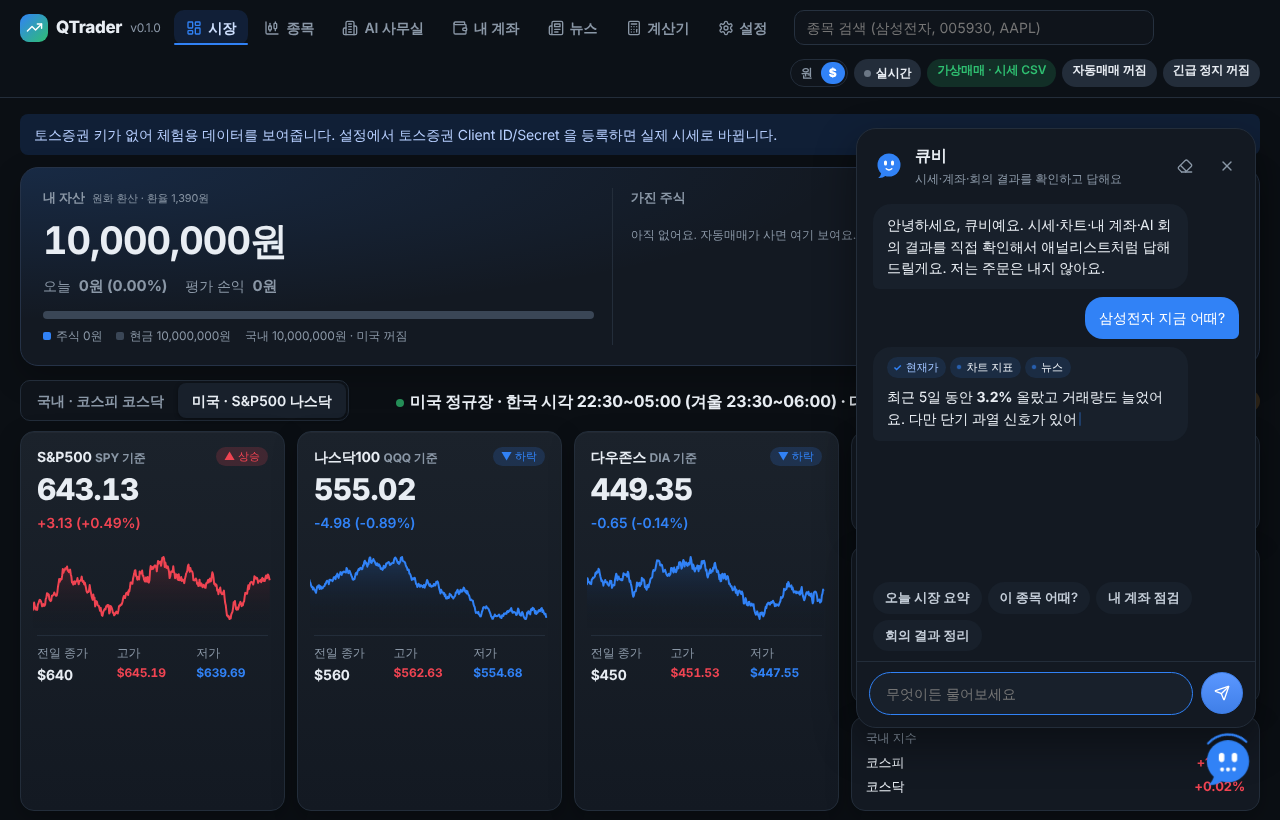
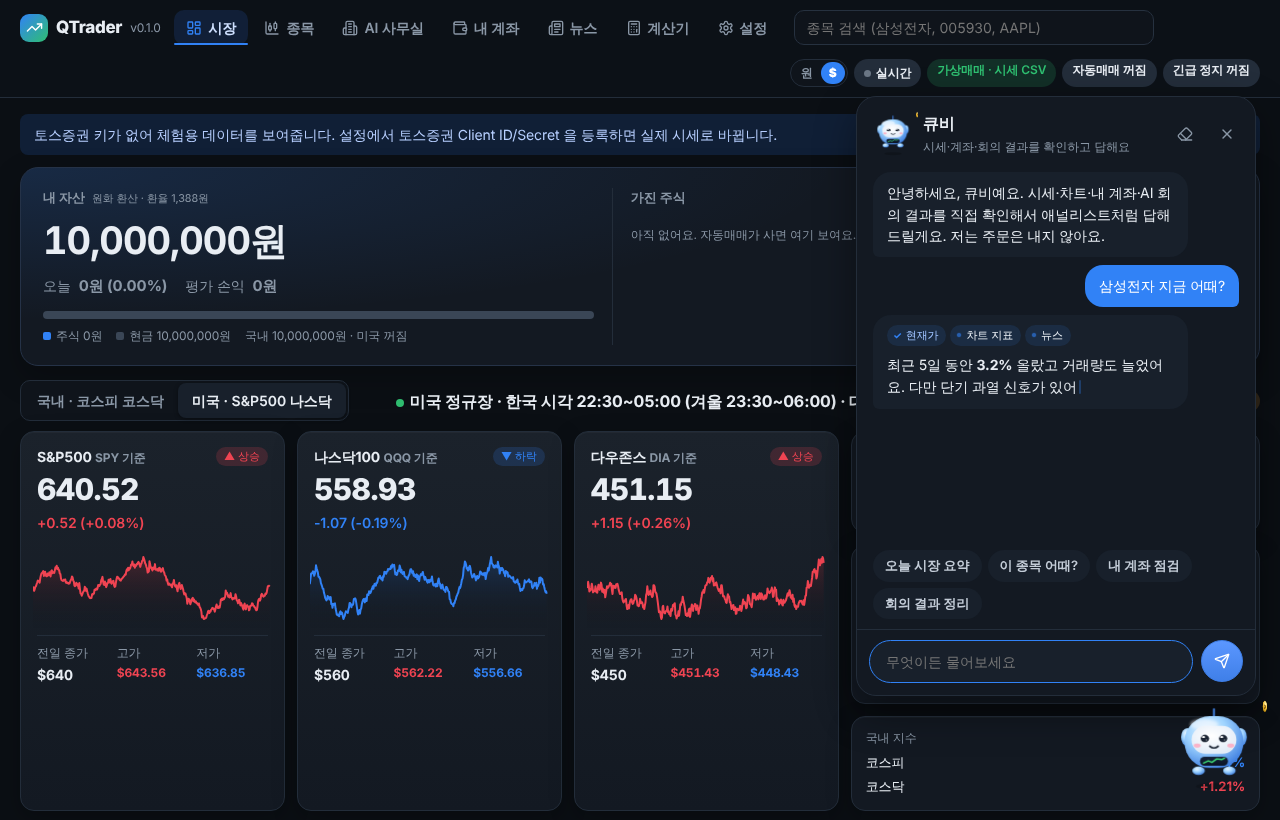
큐비 그림을 원래 3D 모습으로 되돌림 (사용자 요청)
왜: 평면 말풍선 큐비가 원하던 느낌이 아니라서, 처음의 3D 큐비(그라데이션 몸통·동전 안테나·떠다니기·눈 깜빡·생각 중 동전 회전)로 되돌렸다.
버튼 크기(84×92)·대화 창 위치·처음 안내 화면 크기도 원래대로. 답 도착 통 튀기기는 뺐다.
대화 창 열기·닫기 모션, 말풍선·확인 중 칩·커서 정리, 화면 전체 모션 줄이기는 그대로 둔다.

Claude-Session: https://claude.ai/code/session_01Mq9tu3P8YFmjtbtzv5CC8U

diff --git a/qtrader/web/static/chat.css b/qtrader/web/static/chat.css
@@ -1,45 +1,24 @@
-/* 떠 있는 챗봇 큐비 — 토스처럼 깔끔하게: 평면 그림, 짧고 부드러운 움직임(150~400ms), transform·opacity 만 움직인다 */
+/* 떠 있는 챗봇 큐비 — 큐비 그림은 3D 느낌 그대로, 대화 창은 짧고 부드러운 움직임(150~400ms)으로 */
 #qbi { --qbi-ease: cubic-bezier(.2,.8,.2,1); position: fixed; right: 24px; bottom: 24px; z-index: 40; }
 
-/* 떠 있는 버튼 */
-#qbi .qbi-btn { width: 56px; height: 56px; padding: 0; border: 0; border-radius: 50%; background: none; cursor: grab; touch-action: none;
-  position: relative; transition: transform .2s var(--qbi-ease); }
-#qbi .qbi-btn:hover { filter: none; transform: scale(1.05); }
-#qbi .qbi-btn:active:not(:disabled) { cursor: grabbing; transform: scale(.94); }
-.qbi-svg { display: block; width: 100%; height: 100%; overflow: visible; }
-.qbi-svg g, .qbi-svg circle, .qbi-svg path { transform-box: fill-box; transform-origin: center; }
-
-/* 가만히 있을 때: 아주 살짝 숨쉬고 가끔 눈을 깜빡 */
-.qbi-body { transform-origin: 50% 100% !important; animation: qbi-breathe 4s ease-in-out infinite; }
-@keyframes qbi-breathe { 50% { transform: scale(1.025); } }
-.qbi-eyes { animation: qbi-blink 5s infinite; transition: transform .25s var(--qbi-ease); }
-@keyframes qbi-blink { 0%, 93%, 100% { transform: scaleY(1); } 95.5% { transform: scaleY(.15); } }
-.qbi-mouth { transition: opacity .2s var(--qbi-ease), transform .25s var(--qbi-ease); }
-.qbi-wave { opacity: 0; transition: opacity .2s var(--qbi-ease); }
-.qbi-ring { opacity: 0; transform: scale(.9); transition: opacity .25s var(--qbi-ease), transform .25s var(--qbi-ease); }
-
-/* 생각 중: 바깥 고리가 돌고, 입 대신 점 세 개가 물결 */
-#qbi.thinking .qbi-btn .qbi-ring { opacity: 1; transform: scale(1); animation: qbi-spin 1s linear infinite; }
-@keyframes qbi-spin { from { transform: rotate(0); } to { transform: rotate(360deg); } }
-#qbi.thinking .qbi-btn .qbi-mouth { opacity: 0; transform: scale(.6); }
-#qbi.thinking .qbi-btn .qbi-wave { opacity: 1; }
-#qbi.thinking .qbi-btn .qbi-wave circle { animation: qbi-wave .9s var(--qbi-ease) infinite; }
-#qbi.thinking .qbi-btn .qbi-wave circle:nth-child(2) { animation-delay: .12s; }
-#qbi.thinking .qbi-btn .qbi-wave circle:nth-child(3) { animation-delay: .24s; }
-@keyframes qbi-wave { 0%, 60%, 100% { transform: translateY(0); opacity: 1; } 30% { transform: translateY(-2.5px); opacity: .6; } }
-#qbi.thinking .qbi-btn .qbi-eyes { transform: translateY(-1.5px); }
-
-/* 답 도착: 한 번 통 */
-#qbi.cheer .qbi-btn .qbi-body { animation: qbi-cheer .4s var(--qbi-ease); }
-@keyframes qbi-cheer { 0% { transform: scale(1); } 35% { transform: translateY(-4px) scale(1.06, .96); } 70% { transform: translateY(0) scale(.98, 1.02); } 100% { transform: none; } }
-
-/* 새 메시지 점 */
-.qbi-dot { position: absolute; top: 2px; right: 2px; width: 12px; height: 12px; border-radius: 50%; background: var(--red);
-  box-shadow: 0 0 0 2px var(--bg); animation: qbi-pop .3s var(--qbi-ease); }
-@keyframes qbi-pop { from { transform: scale(0); opacity: 0; } to { transform: scale(1); opacity: 1; } }
+/* 떠 있는 버튼: 원래 3D 큐비 그대로 */
+.qbi-btn { width: 84px; height: 92px; padding: 0; border: 0; background: none; cursor: grab; touch-action: none; position: relative; }
+.qbi-btn:active { cursor: grabbing; }
+.qbi-btn:hover { filter: none; }
+.qbi-svg { width: 100%; height: 100%; overflow: visible; }
+.qbi-float { animation: qbi-float 3.2s ease-in-out infinite; transform-origin: 60px 70px; }
+.qbi-shadow { animation: qbi-shadow 3.2s ease-in-out infinite; transform-origin: 60px 124px; }
+@keyframes qbi-float { 50% { transform: translateY(-5px); } }
+@keyframes qbi-shadow { 50% { transform: scaleX(.85); opacity: .7; } }
+.qbi-eyes { animation: qbi-blink 4.6s infinite; transform-origin: 60px 58px; }
+@keyframes qbi-blink { 0%, 94%, 100% { transform: scaleY(1); } 97% { transform: scaleY(.1); } }
+#qbi.thinking .qbi-coin { animation: qbi-spin .9s linear infinite; transform-origin: 60px 12px; transform-box: fill-box; }
+@keyframes qbi-spin { to { transform: rotateY(360deg); } }
+.qbi-btn:hover .qbi-float { animation-duration: 1.2s; }
+.qbi-dot { position: absolute; top: 10px; right: 10px; width: 12px; height: 12px; border-radius: 50%; background: var(--red); box-shadow: 0 0 0 3px var(--bg); }
 
 /* 대화 창: 아래에서 살짝 올라오며 나타나고, 닫으면 내려가며 사라진다 */
-.qbi-panel { position: absolute; right: 0; bottom: 68px; width: min(400px, calc(100vw - 32px)); height: min(600px, calc(100vh - 140px));
+.qbi-panel { position: absolute; right: 0; bottom: 100px; width: min(400px, calc(100vw - 32px)); height: min(600px, calc(100vh - 140px));
   display: flex; flex-direction: column; background: var(--panel); border: 1px solid var(--line); border-radius: 20px;
   box-shadow: 0 16px 40px rgba(0,0,0,.4); overflow: hidden;
   opacity: 0; visibility: hidden; pointer-events: none; transform: translateY(12px) scale(.98); transform-origin: 100% 100%;
@@ -47,13 +26,12 @@
 .qbi-panel.open { opacity: 1; visibility: visible; pointer-events: auto; transform: none;
   transition: opacity .22s var(--qbi-ease), transform .3s var(--qbi-ease), visibility 0s; }
 #qbi.left-side .qbi-panel { right: auto; left: 0; transform-origin: 0 100%; }
-#qbi.top-side .qbi-panel { bottom: auto; top: 68px; transform: translateY(-12px) scale(.98); transform-origin: 100% 0; }
+#qbi.top-side .qbi-panel { bottom: auto; top: 100px; transform: translateY(-12px) scale(.98); transform-origin: 100% 0; }
 #qbi.top-side.left-side .qbi-panel { transform-origin: 0 0; }
 #qbi.top-side .qbi-panel.open { transform: none; }
 
 .qbi-head { display: flex; gap: 10px; align-items: center; padding: 14px 12px 12px 16px; }
-.qbi-mini { width: 32px; height: 32px; flex: none; }
-.qbi-mini .qbi-body, .qbi-mini .qbi-eyes { animation: none; } /* 머리글의 작은 큐비는 가만히 */
+.qbi-mini { width: 40px; height: 44px; flex: none; }
 .qbi-head b { display: block; font-size: 16px; font-weight: 700; }
 .qbi-head span { font-size: 12px; color: var(--muted); }
 #qbi .qbi-x { margin-left: auto; width: 32px; height: 32px; padding: 0; border: 0; border-radius: 10px; background: none; color: var(--muted); }
@@ -98,10 +76,7 @@
 #qbi .qbi-form input:focus { border-color: var(--blue); box-shadow: none; }
 #qbi .qbi-form button { border-radius: 50%; width: 42px; height: 42px; padding: 0; display: grid; place-items: center; box-shadow: none; }
 
-/* 처음 실행 안내의 큐비 */
-#onboard .ob-mascot { width: 88px; height: 88px; }
-
 @media (prefers-reduced-motion: reduce) {
   .qbi-panel, .qbi-panel.open { transition: none; }
-  .qbi-body, .qbi-eyes, .qbi-ring, #qbi .msg, #qbi .qbi-tools span { animation: none !important; }
+  #qbi .msg, #qbi .qbi-tools span { animation: none !important; }
 }

diff --git a/qtrader/web/static/chat.js b/qtrader/web/static/chat.js
@@ -2,21 +2,45 @@
 // 떠 있는 AI 애널리스트 챗봇 '큐비'. 화면 어디로든 끌어서 옮길 수 있고, 위치는 이 PC 브라우저에 기억한다.
 // 답변은 서버의 비서(Assistant)가 시세·계좌·최근 AI 회의 결론을 도구로 확인해서 만든다.
 
-// 토스처럼 단순한 평면 그림: 파란 말풍선 얼굴 + 흰 눈·입. 그림자·광택 없이 40~56px 에서도 또렷하게.
-// 움직임은 CSS 가 맡는다 (가만히: 숨쉬기·눈 깜빡, 생각 중: 고리 회전·점 물결, 답 도착: 통 튀기기)
 const QBI_TPL = `
-<svg viewBox="0 0 64 64" class="qbi-svg" aria-hidden="true">
-  <circle class="qbi-ring" cx="32" cy="30" r="29" fill="none" stroke="#3182f6" stroke-width="2.5" stroke-linecap="round" stroke-dasharray="46 140"/>
-  <g class="qbi-body">
-    <path d="M17 45 Q15.5 52 10.5 56 Q19.5 56.5 25.5 51.5 Z" fill="#3182f6"/>
-    <circle cx="32" cy="30" r="23" fill="#3182f6"/>
-    <g class="qbi-eyes"><rect x="22" y="21" width="6" height="10" rx="3" fill="#fff"/><rect x="36" y="21" width="6" height="10" rx="3" fill="#fff"/></g>
-    <path class="qbi-mouth" d="M26.5 37.5 Q32 42.5 37.5 37.5" stroke="#fff" stroke-width="3" stroke-linecap="round" fill="none"/>
-    <g class="qbi-wave"><circle cx="25.5" cy="39" r="2.2" fill="#fff"/><circle cx="32" cy="39" r="2.2" fill="#fff"/><circle cx="38.5" cy="39" r="2.2" fill="#fff"/></g>
+<svg viewBox="0 0 120 130" class="qbi-svg" aria-hidden="true">
+  <defs>
+    <radialGradient id="qb-body" cx="38%" cy="30%" r="75%">
+      <stop offset="0" stop-color="#e9f6ff"/><stop offset=".45" stop-color="#9fd4ff"/><stop offset="1" stop-color="#3f7fe0"/>
+    </radialGradient>
+    <radialGradient id="qb-face" cx="45%" cy="35%" r="70%">
+      <stop offset="0" stop-color="#ffffff"/><stop offset="1" stop-color="#dfeaf7"/>
+    </radialGradient>
+    <radialGradient id="qb-coin" cx="35%" cy="30%" r="70%">
+      <stop offset="0" stop-color="#fff3b0"/><stop offset=".6" stop-color="#f5c542"/><stop offset="1" stop-color="#b8860b"/>
+    </radialGradient>
+    <linearGradient id="qb-belly" x1="0" y1="0" x2="0" y2="1">
+      <stop offset="0" stop-color="#14223a"/><stop offset="1" stop-color="#0b1424"/>
+    </linearGradient>
+    <filter id="qb-soft" x="-20%" y="-20%" width="140%" height="140%"><feGaussianBlur stdDeviation="2.2"/></filter>
+  </defs>
+  <ellipse cx="60" cy="124" rx="30" ry="4.5" fill="rgba(0,0,0,.28)" class="qbi-shadow"/>
+  <g class="qbi-float">
+    <line x1="60" y1="16" x2="60" y2="28" stroke="#3f7fe0" stroke-width="3" stroke-linecap="round"/>
+    <g class="qbi-coin"><circle cx="60" cy="12" r="8" fill="url(#qb-coin)"/><text x="60" y="15.5" text-anchor="middle" font-size="9" font-weight="900" fill="#8a5a00">Q</text></g>
+    <ellipse cx="22" cy="56" rx="9" ry="13" fill="url(#qb-body)"/><ellipse cx="98" cy="56" rx="9" ry="13" fill="url(#qb-body)"/>
+    <rect x="18" y="26" width="84" height="74" rx="36" fill="url(#qb-body)"/>
+    <ellipse cx="46" cy="38" rx="20" ry="8" fill="#fff" opacity=".55" filter="url(#qb-soft)"/>
+    <rect x="28" y="40" width="64" height="40" rx="20" fill="url(#qb-face)"/>
+    <g class="qbi-eyes">
+      <ellipse cx="47" cy="58" rx="6" ry="7.5" fill="#1b2433"/><ellipse cx="73" cy="58" rx="6" ry="7.5" fill="#1b2433"/>
+      <circle cx="45" cy="55" r="2.3" fill="#fff"/><circle cx="71" cy="55" r="2.3" fill="#fff"/>
+      <circle cx="49" cy="61" r="1" fill="#fff" opacity=".7"/><circle cx="75" cy="61" r="1" fill="#fff" opacity=".7"/>
+    </g>
+    <ellipse cx="36" cy="68" rx="5" ry="3" fill="#ff9fb8" opacity=".75"/><ellipse cx="84" cy="68" rx="5" ry="3" fill="#ff9fb8" opacity=".75"/>
+    <path d="M54 69 Q60 74 66 69" stroke="#1b2433" stroke-width="2.4" fill="none" stroke-linecap="round" class="qbi-mouth"/>
+    <rect x="40" y="84" width="40" height="13" rx="6.5" fill="url(#qb-belly)"/>
+    <polyline points="45,93 52,90 57,92 64,87 71,88 75,86" fill="none" stroke="#3fe07a" stroke-width="2" stroke-linecap="round" stroke-linejoin="round"/>
+    <ellipse cx="38" cy="104" rx="9" ry="6" fill="url(#qb-body)"/><ellipse cx="82" cy="104" rx="9" ry="6" fill="url(#qb-body)"/>
   </g>
 </svg>`;
-// 그라데이션 id 가 없어 그대로 여러 번 써도 된다 (k: 어디에 쓰는지 표시)
-const qbiSvg = (k) => QBI_TPL.replace('class="qbi-svg"', `class="qbi-svg qbi-svg-${k}"`);
+// 같은 SVG 를 두 번 쓰므로 그라데이션 id 가 겹치지 않게 접미사를 붙인다
+const qbiSvg = (k) => QBI_TPL.replace(/qb-([a-z]+)/g, `qb-$1-${k}`);
 
 const chat = { open: false, busy: false, thread: null, dragging: false, moved: false, log: [] };
 const CHAT_KEY = "qtrader.chat.log";
@@ -186,7 +210,6 @@ async function send(text) {
     if (done.sources.length) box.insertAdjacentHTML("beforeend", `<div class="sources">${done.sources.slice(0, 5).map((s) => `<a href="${esc(s.url)}" target="_blank" rel="noopener noreferrer">${esc(s.title)}</a>`).join("")}</div>`);
     box.classList.remove("live");
     chat.log.push({ who: "bot", html: box.innerHTML }); saveChatLog();
-    qbiCheer();
     if (done.tools.includes("start_meeting") && window.showRunById) { openTab("office"); }
   } catch (err) {
     box.classList.remove("live");
@@ -195,14 +218,6 @@ async function send(text) {
   chat.busy = false; window.chatBusy = false;
   $("#qbi").classList.remove("thinking");
   if (!chat.open) $("#qbi-dot").classList.remove("hidden");
-}
-
-// 답이 도착하면 큐비가 한 번 통 튄다
-function qbiCheer() {
-  const root = $("#qbi");
-  root.classList.remove("cheer"); void root.offsetWidth;
-  root.classList.add("cheer");
-  setTimeout(() => root.classList.remove("cheer"), 450);
 }
 
 buildChat();
